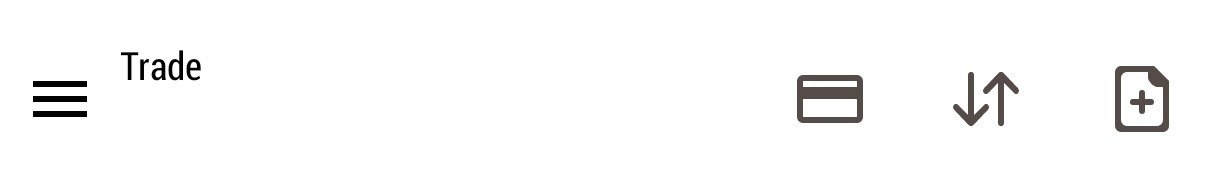
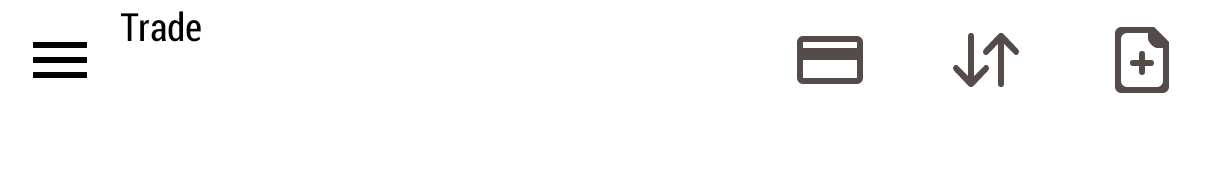
Potong ulang header presisi — judul Trade & Riwayat sejajar saat tap
- Header Trade (putih) & header Riwayat tap-view dipotong dari 2 screenshot
  bersih HP yang sama, mulai titik atas IDENTIK (y128) → judul + ikon di
  posisi render yang sama persis saat tap Trade⇄Riwayat; hanya baris tab
  POSISI/ORDER/DEAL yang muncul di Riwayat (bawaan asli MT5)
- Area PnL '-2.92 USC' di header Trade dikosongkan (isi putih) supaya diisi
  angka running PnL HTML; box ltTopPnl dikalibrasi ulang (topH 190)
- Header tap-view pakai aset baru (livetrade-rw-top.jpg); riwayat-top.jpg
  app Riwayat lama & aset tema gelap TIDAK tersentuh
- Bekas scrollbar tepi kanan header Riwayat dibersihkan

Claude-Session: https://claude.ai/code/session_01FvkRLNUH8XbCkxdXmRhTFb

diff --git a/index.html b/index.html
@@ -389,7 +389,7 @@ body.ltplaymode #ltPhotowrap{width:min(100vw,calc(100vh * 1080 / 2229));max-widt
        datanya dari riwayat turunan Live Trade; watermark & overlay tetap di
        atasnya karena z-index-nya lebih tinggi dari kanvas ini -->
   <div id="ltHistCanvas">
-    <img id="ltHistTop" src="assets/riwayat-top.jpg" alt="Header Riwayat MT5">
+    <img id="ltHistTop" src="assets/livetrade-rw-top.jpg" alt="Header Riwayat MT5">
     <div id="ltHistScroll">
       <div class="summary" id="ltHistSummary"></div>
       <div id="ltHistTrades"></div>
@@ -1229,8 +1229,8 @@ const LT_THEMES={
   },
   white:{
     topImg:'assets/livetrade-chrome-white.jpg', posisiImg:'assets/livetrade-posisi-white.jpg', botImg:'assets/livetrade-bottom-white.jpg',
-    topW:1220, topH:195,
-    boxes:{ ltTopPnl:{l:121,t:88,w:245,h:70,align:'left'} },
+    topW:1220, topH:190,
+    boxes:{ ltTopPnl:{l:118,t:64,w:260,h:42,align:'left'} },
     textDefaultColor:'#1c1c1e',
   },
 };
